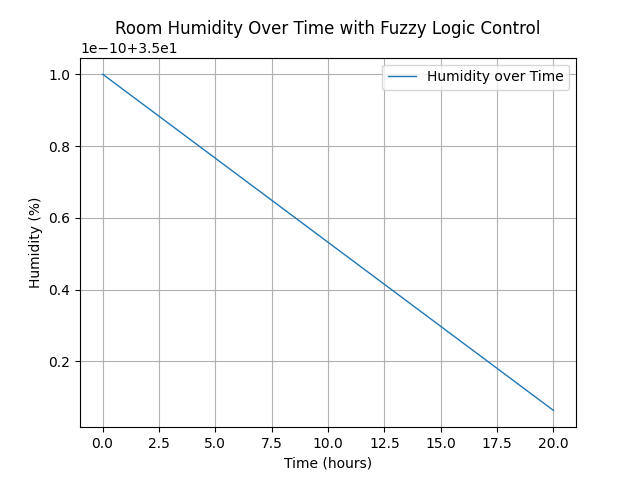
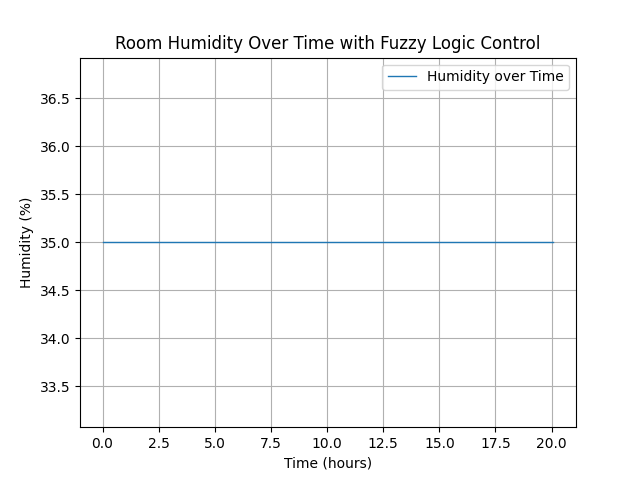
humidity still refusing to change

diff --git a/environment_simulator.py b/environment_simulator.py
@@ -29,8 +29,8 @@ def kelvin_to_celsius(temp_k):
 
 def calc_new_temp_and_hum(temp, humidity, ac_heater_control, humidifier_control, hour, step_seconds, splines, ac_heater_max_power=1000, wall_heat_loss_factor=1):
 
-    #ac_heater_max_power = 1000  # in Watt
-    humidifier_max_change= 5/3600 # can change by 5% per hour
+    # Fix: Make humidifier_max_change per hour, not per second
+    humidifier_max_change = 5.0  # 5% per hour (reasonable rate)
 
     specific_heat = specific_heat_by_humidity(humidity)  # J/(kg·K)
     
@@ -50,9 +50,12 @@ def calc_new_temp_and_hum(temp, humidity, ac_heater_control, humidifier_control,
 
     temp_change = (sum_power * step_seconds) / (air_mass * specific_heat)  # in Kelvin
 
-    SCALE_HUMIDITY_CHANGE = 1e5
-    humidity_change =  humidifier_control / 100 * humidifier_max_change  * step_seconds * SCALE_HUMIDITY_CHANGE
-    print('humidifier_control:', humidifier_control, 'humidity_change:', humidity_change, 'step_seconds:', step_seconds, 'humidifier_max_change:', humidifier_max_change)
+    # Fix: Proper humidity calculation (convert step_seconds to hours)
+    step_hours = step_seconds / 3600  # Convert seconds to hours
+    humidity_change = (humidifier_control / 100) * humidifier_max_change * step_hours
+    
+    print('humidifier_control:', humidifier_control, 'humidity_change:', humidity_change, 'step_seconds:', step_seconds, 'step_hours:', step_hours)
+    
     return {"temperature": temp + temp_change, "humidity": humidity + humidity_change, "outdoor_temperature": outdoor_temp}
 
 #print(f"Step hours: {step_hours}")

diff --git a/membership_functions.py b/membership_functions.py
@@ -25,9 +25,9 @@ delta_temperature['stable'] = fuzz.trimf(universes['delta_temperature'], [-3, 0,
 delta_temperature['increasing'] = fuzz.trapmf(universes['delta_temperature'], [2, 7, mm.DELTA_TEMP_MAX, mm.DELTA_TEMP_MAX])
 
 delta_humidity = ctrl.Antecedent(universes['delta_humidity'], 'delta_humidity')  # -20 to 20% change
-delta_humidity['decreasing'] = 1 - fuzz.trapmf(universes['delta_humidity'], [-15, -5, mm.DELTA_HUM_MAX, mm.DELTA_HUM_MAX])
-delta_humidity['stable'] = fuzz.trimf(universes['delta_humidity'], [-7, 0, 7])
-delta_humidity['increasing'] = fuzz.trapmf(universes['delta_humidity'], [5, 15, mm.DELTA_HUM_MAX, mm.DELTA_HUM_MAX])
+delta_humidity['decreasing'] = 1 - fuzz.trapmf(universes['delta_humidity'], [-15, -2, mm.DELTA_HUM_MAX, mm.DELTA_HUM_MAX])
+delta_humidity['stable'] = fuzz.trimf(universes['delta_humidity'], [-1, 0, 1])  # Much narrower stable zone
+delta_humidity['increasing'] = fuzz.trapmf(universes['delta_humidity'], [2, 15, mm.DELTA_HUM_MAX, mm.DELTA_HUM_MAX])
 
 ac_heater_power = ctrl.Consequent(universes['ac_heater_power'], 'ac_heater_power')
 ac_heater_power['cooling'] = 1 - fuzz.trapmf(universes['ac_heater_power'], [-50, 0, mm.AC_HEATER_POWER_MAX, mm.AC_HEATER_POWER_MAX])

diff --git a/firstRun.py b/firstRun.py
@@ -52,12 +52,13 @@ while cur_time < max_time:
     # Get the output values
     heating_power = simulator.output['ac_heater_power']
     humidifier_power = simulator.output['humidifier_dehumidifier_power']
-
+    print('heating_power:', heating_power, 'humidifier_power:', humidifier_power)
     new_data = calc_new_temp_and_hum(cur_temp, cur_hum, heating_power, humidifier_power, cur_time, seconds, splines, max_ac_power, wall_heat_loss_factor)
     new_temp = new_data['temperature']
     new_hum = new_data['humidity']
 
     print(f"Time: {cur_time:.6f} hrs, Temp: {cur_temp:.6f} C, Humidity: {cur_hum:.6f} %, Delta Temp: {cur_delta_temp:.6f} C, Heating Power: {heating_power:.6f} % -> New Temp: {new_temp:.6f} C, New Humidity: {new_hum:.6f} %, Outdoor Temp: {new_data['outdoor_temperature']:.6f} C")
+
     # Store the results
     temps.append(cur_temp)
     hums.append(cur_hum)
@@ -65,6 +66,8 @@ while cur_time < max_time:
     outdoor_temps.append(new_data['outdoor_temperature'])
 
     cur_delta_temp = new_temp - cur_temp
+    cur_delta_hum = new_hum - cur_hum
+
     cur_temp = new_temp
     cur_hum = new_hum
     cur_time += step

diff --git a/fuzzy_rules.py b/fuzzy_rules.py
@@ -32,9 +32,12 @@ temp_only_rules = [
 humidity_only_rules = [
     ctrl.Rule(hum['dry'], ac_heater['heating']),
     ctrl.Rule(hum['comfortable'], ac_heater['off']),
-    ctrl.Rule(hum['humid'], ac_heater['cooling'])
+    ctrl.Rule(hum['humid'], ac_heater['cooling']),
+    ctrl.Rule(hum['dry'], humidifier_dehumidifier['humidifying']),
+    ctrl.Rule(hum['comfortable'], humidifier_dehumidifier['off']),
+    ctrl.Rule(hum['humid'], humidifier_dehumidifier['dehumidifying'])
 ]
-#rules.extend(humidity_only_rules)
+rules.extend(humidity_only_rules)
 
 #Combined temperature and humidity rules
 temp_and_hum_rules = [

diff --git a/membership_function_grapher.py b/membership_function_grapher.py
@@ -20,6 +20,8 @@ for var_name, fuzzySets in variables.items():
     var_title = var_name.replace('_', ' ').title()
     if var_title.startswith('Ac'):
         var_title = var_title.replace('Ac ', 'AC/')
+    elif var_title.startswith('Humidifier Dehumidifier'):
+        var_title = var_title.replace('Humidifier Dehumidifier', 'Humidifier/Dehumidifier')
     print(f"Saving plot for {var_title} membership functions...")
     plt.title(var_title + ' Membership Functions', fontweight='bold')
     plt.xlabel(var_title + ' (' + units[var_name] + ')')
